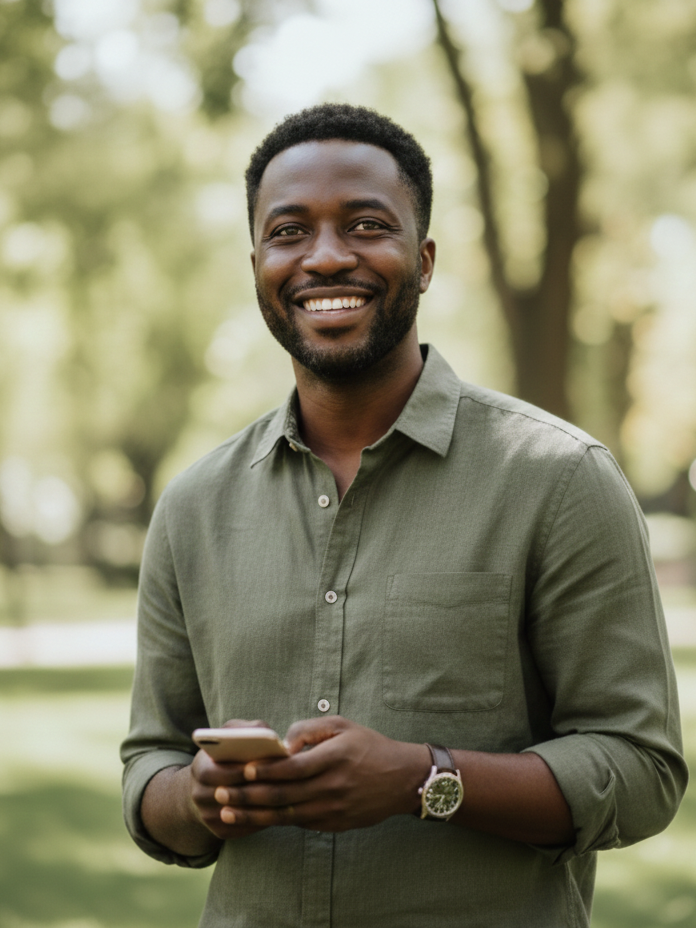
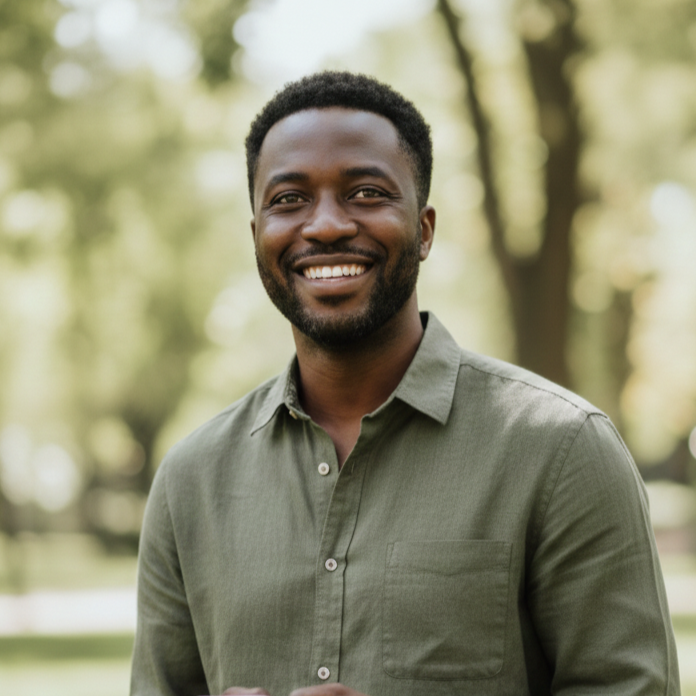
ss

diff --git a/style/index2.css b/style/index2.css
@@ -154,6 +154,9 @@ button{
     display: flex;
     flex-direction: row;
     gap: 30px;
+    align-items: center;
+    justify-content: center;
+    margin-top: 5rem;
     
 }
 .right{
@@ -181,17 +184,23 @@ button{
 .hero-container {
     position: relative;
     width: 100%;
-    height: 80vh; /* Adjust based on 3/4 format preference */
     overflow: hidden;
     background: #f4f7f6;
     display: flex;
+    height: 80vh;
     justify-content: center;
     align-items: center;
 }
-
-.hero-bg img {
-    width: 100%;
+.hero-bg {
+    position: absolute;
     height: 100%;
+}
+.hero-bg img {
+    object-position: top center;
+    width: 100%;
+    position: relative;
+    height: 80vh;
+    border-radius: 24px;
     object-fit: cover;
 }
 

diff --git a/index.html b/index.html
@@ -46,7 +46,7 @@
         <div class="right">
             <section class="hero-container">
     <div class="hero-bg">
-        <img src="https://integraco-op.vercel.app/img5.png" alt="Hero Background">
+        <img src="img5.png" alt="Hero Background">
     </div>
 
     <div class="floating-box box-1">
